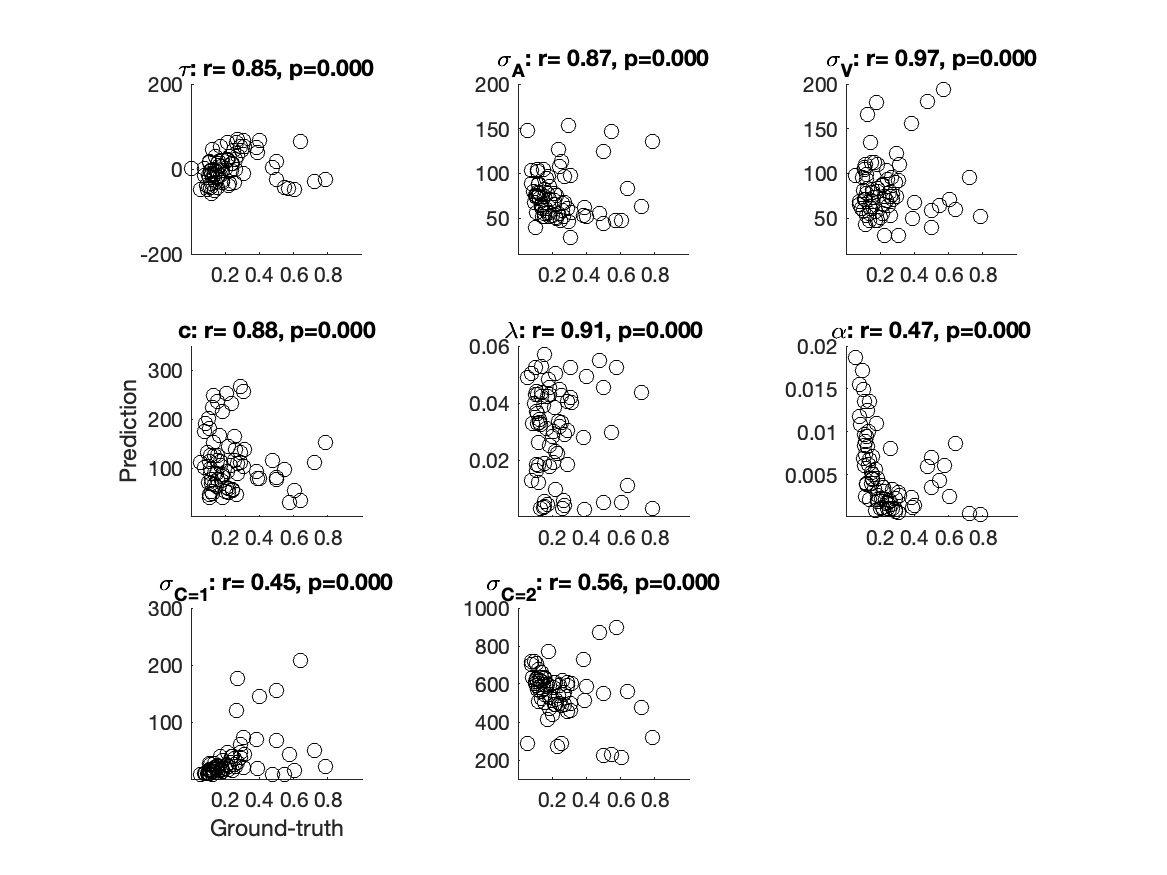
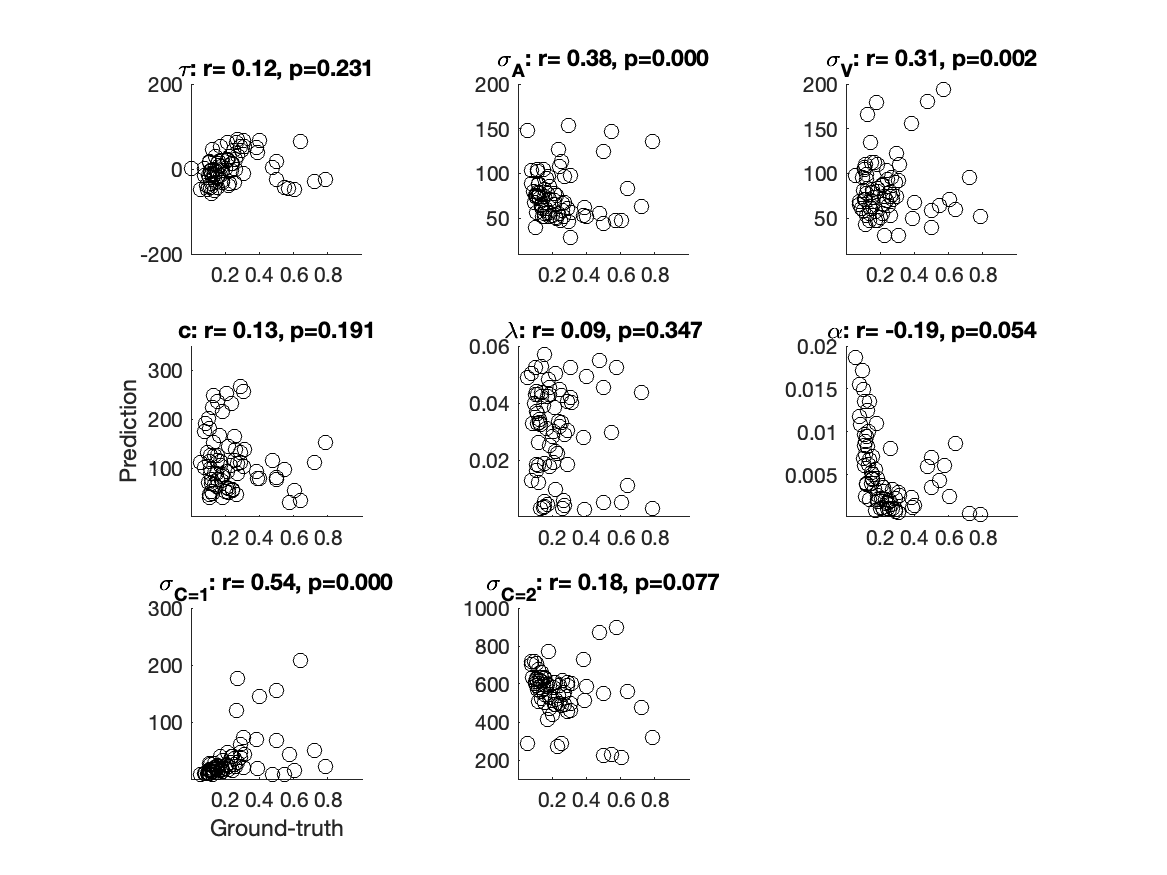
tradeoff

diff --git a/recalibration_models_VBMC/plot_parameter_recovery.m b/recalibration_models_VBMC/plot_parameter_recovery.m
@@ -98,7 +98,7 @@ for jj = 1:num_para-1
     ylim([lb(pp) ub(pp)])
 
     % Calculate the Pearson correlation coefficient and p-value
-    [R, P] = corrcoef(gt(:, pp), est(:, pp));
+    [R, P] = corrcoef(est(:,idx_pcc), est(:, pp));
 
     % Extract the correlation coefficient and p-value
     r = R(1,2);
